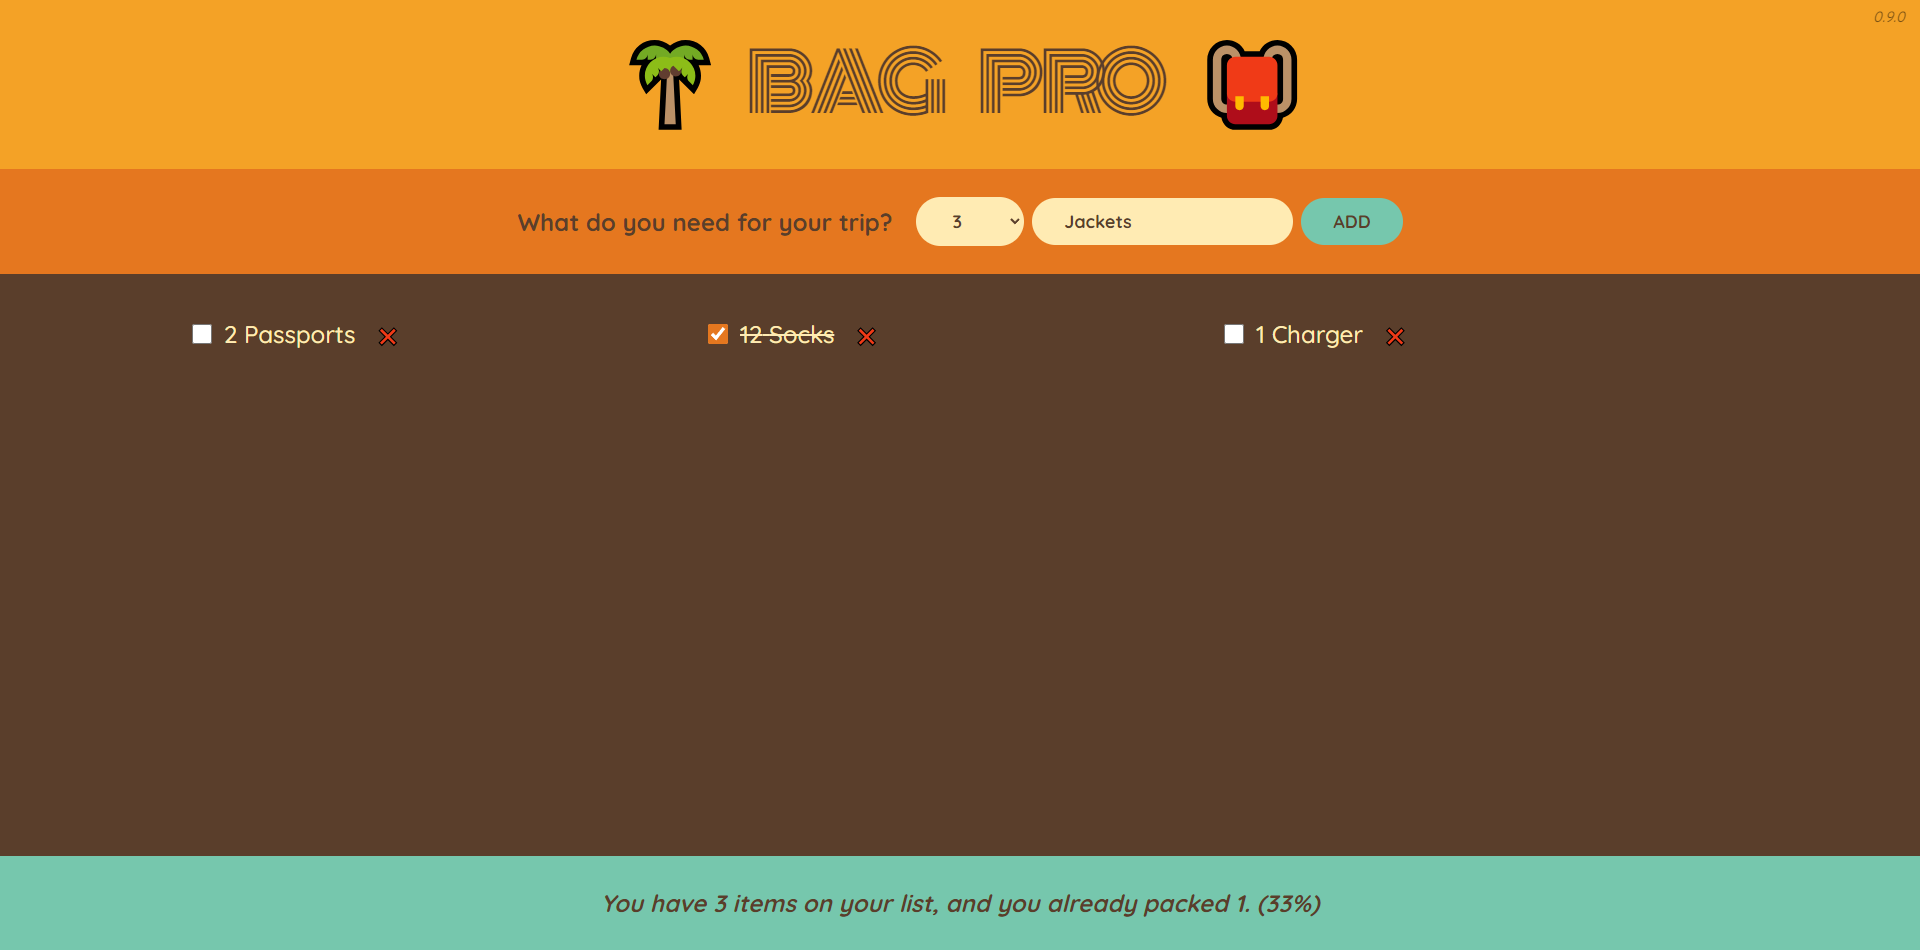
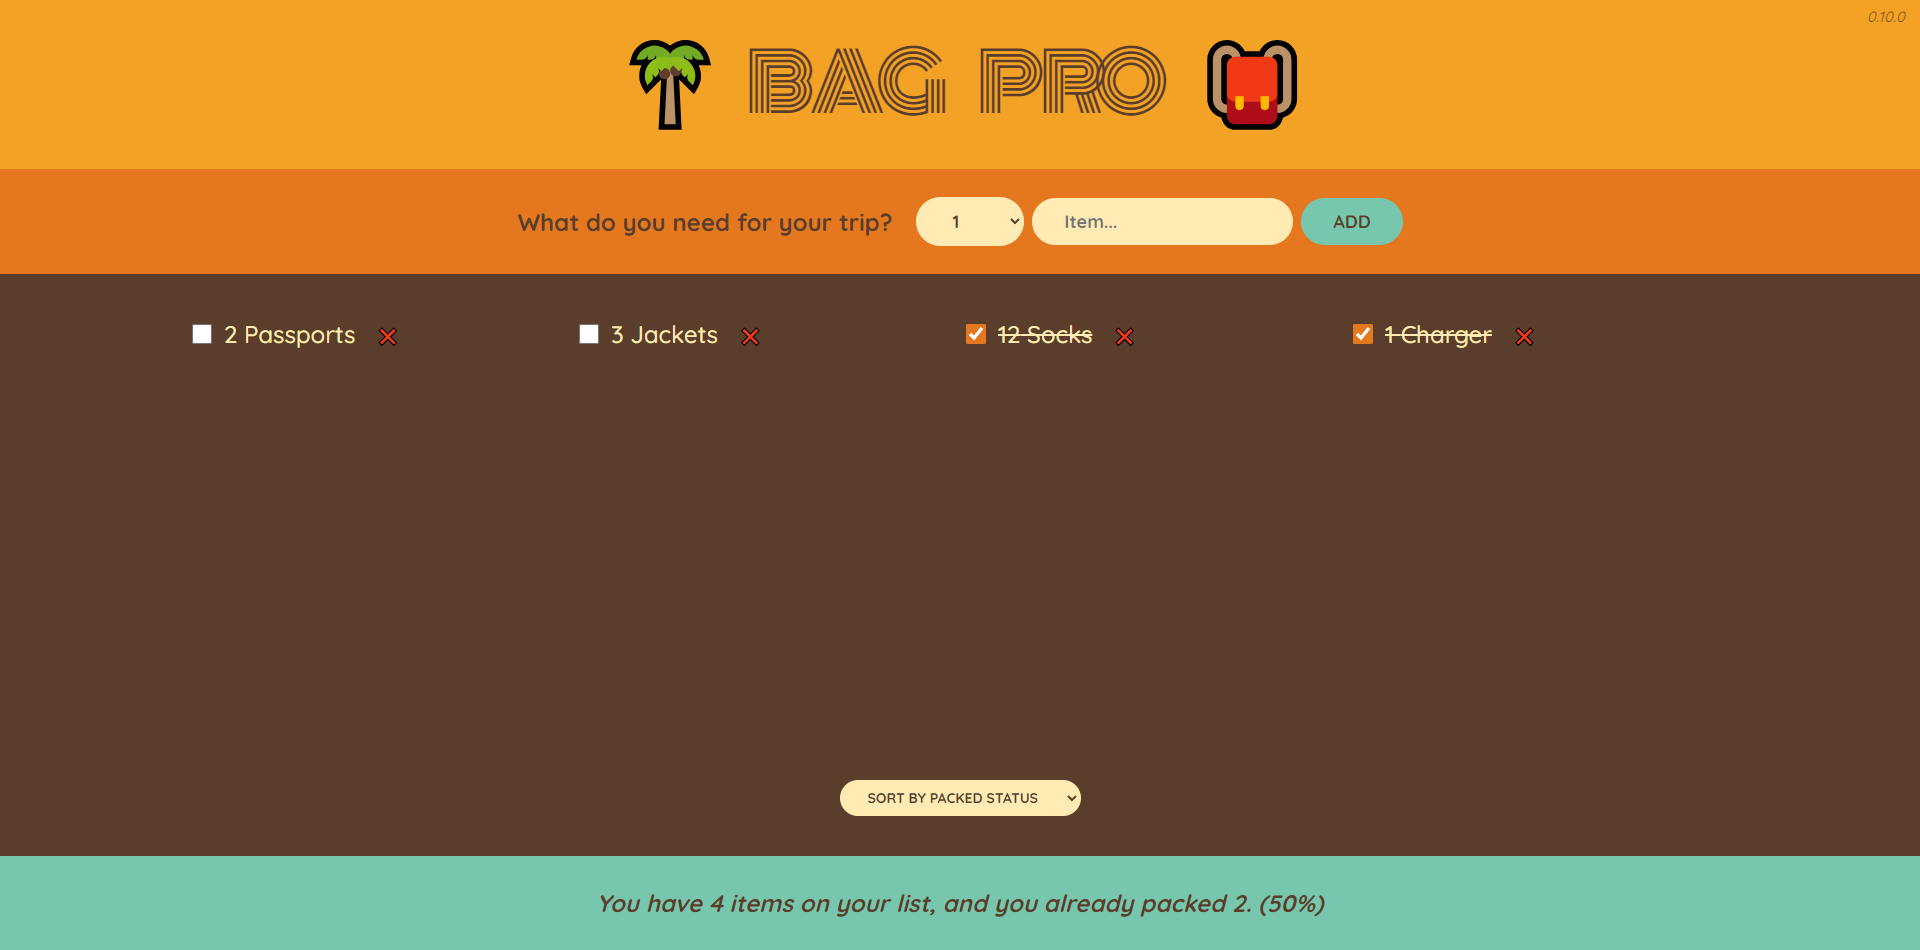
BAG PRO 0.10.0
Add Order Items Feature
Update App.js

diff --git a/src/App.js b/src/App.js
@@ -64,11 +64,25 @@ function Form({ onAddItems }) {
 }
 
 function PackingList({ items, onDeleteItem, onToggleItem }) {
+  const [sortBy, setSortBy] = useState("input");
+  let sortedItems;
+
+  if (sortBy === "input") sortedItems = items;
+  if (sortBy === "description") sortedItems = items.slice().sort((a, b) => a.description.localeCompare(b.description));
+  if (sortBy === "packed") sortedItems = items.slice().sort((a, b) => Number(a.packed) - Number(b.packed));
+
   return (
     <div className="list">
       <ul>
-        {items.map(item => <Item item={item} key={item.id} onDeleteItem={onDeleteItem} onToggleItem={onToggleItem} />)}
+        {sortedItems.map(item => <Item item={item} key={item.id} onDeleteItem={onDeleteItem} onToggleItem={onToggleItem} />)}
       </ul>
+      <div className="actions">
+        <select value={sortBy} onChange={e => setSortBy(e.target.value)}>
+          <option value="input">Sort by input order</option>
+          <option value="description">Sort by description</option>
+          <option value="packed">Sort by packed status</option>
+        </select>
+      </div>
     </div>
   )
 }

diff --git a/README.md b/README.md
@@ -10,7 +10,7 @@
 
 - **STACK :**
 
-  - **Bag Pro** : `0.9.0`
+  - **Bag Pro** : `0.10.0`
   - **React** : `18.3.1`
   - **React Dom** : `18.3.1`
 
